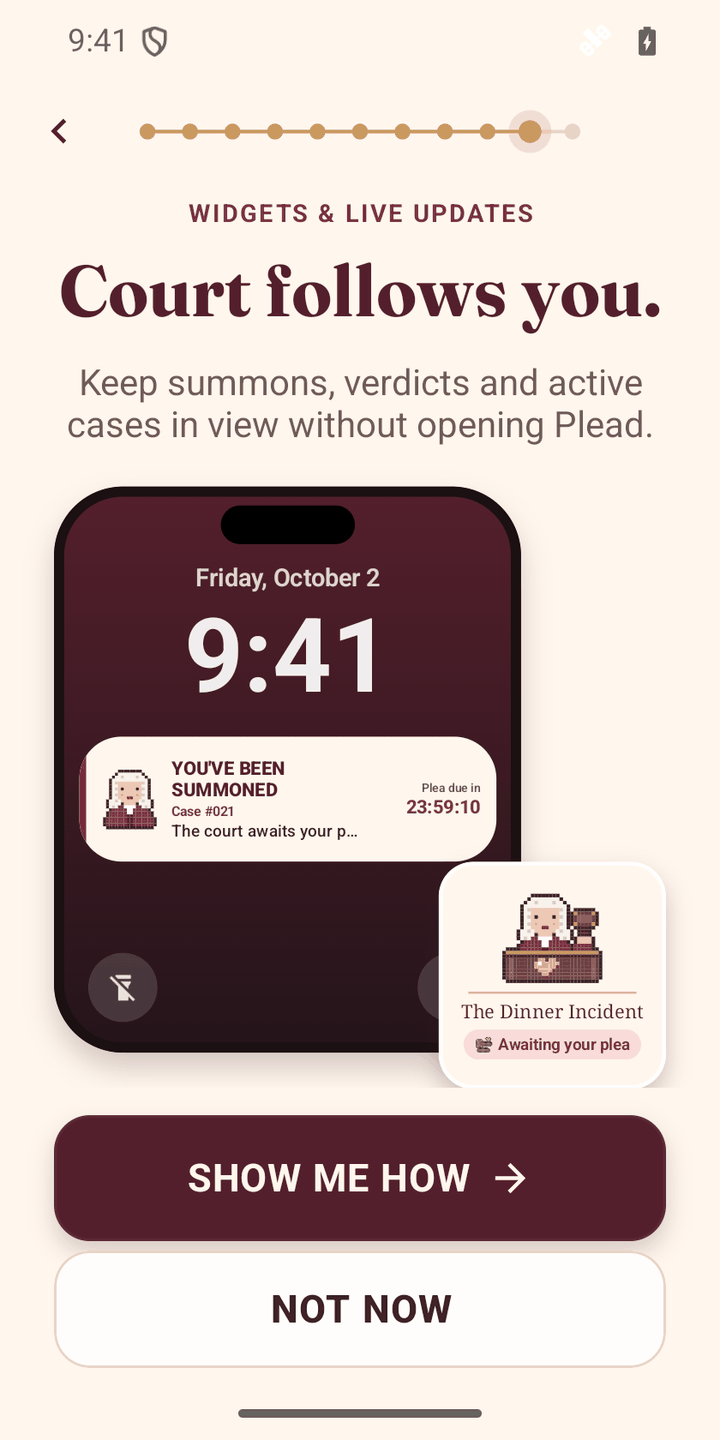
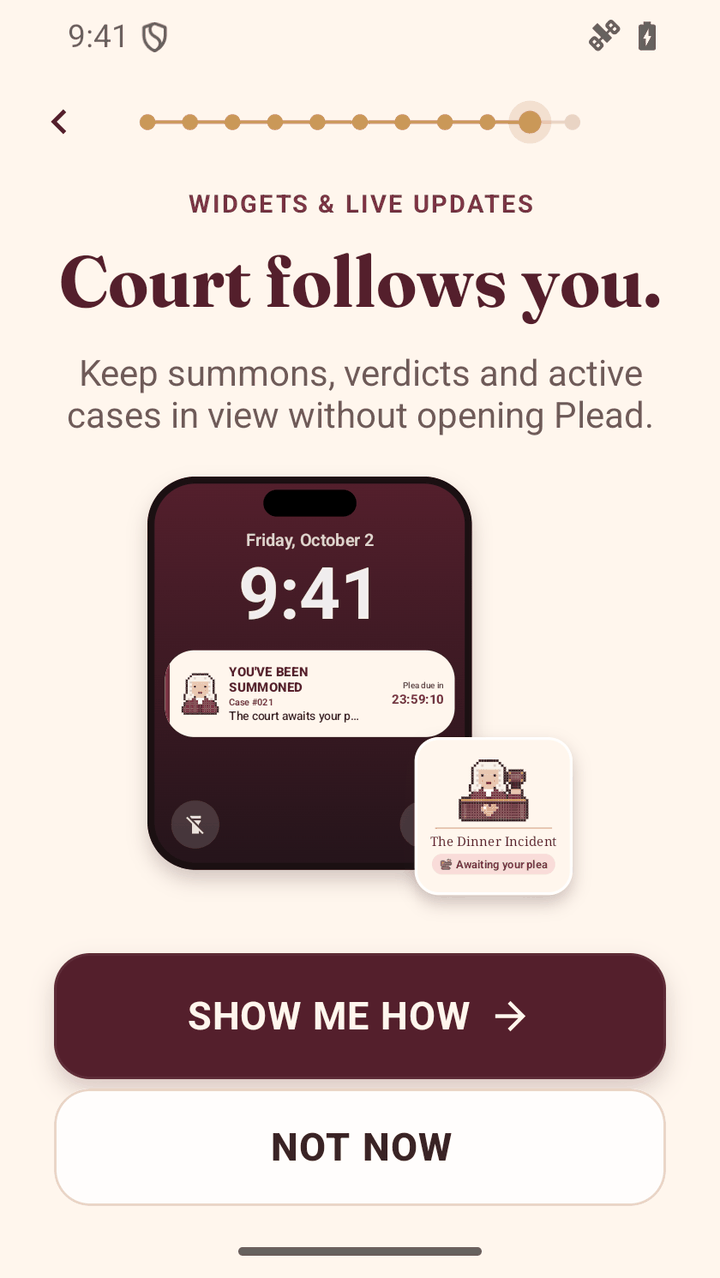
Android: widget illustration fits short screens; integrate tab pill
The onboarding widget illustration now scales uniformly by the smaller
of the width fit and the height between the copy and the buttons, so the
whole composition, widget card included, shows on 360x640 and 320x568
phones (Pixel 7 unchanged). STATUS.md reconciled after merging the
selected-tab pill branch.

JVM 855 run, 0 failures; lint 0 errors (44 warnings); release assembles;
connected 55 run, 54 passed, 1 skipped (600 s).

diff --git a/app/src/main/java/app/plead/android/features/onboarding/WidgetSetupEducationView.kt b/app/src/main/java/app/plead/android/features/onboarding/WidgetSetupEducationView.kt
@@ -15,6 +15,9 @@ package app.plead.android.features.onboarding
 import kotlin.math.roundToInt
 import androidx.compose.ui.unit.Constraints
 import androidx.compose.ui.layout.layout
+import androidx.compose.ui.layout.onGloballyPositioned
+import androidx.compose.ui.layout.positionInWindow
+import androidx.compose.ui.platform.LocalWindowInfo
 import androidx.compose.animation.AnimatedVisibility
 import androidx.compose.animation.core.tween
 import androidx.compose.animation.fadeIn
@@ -129,6 +132,19 @@ fun WidgetSetupEducationView(app: AppModel, modifier: Modifier = Modifier) {
     LaunchedEffect(Unit) { model.widgetEducationAppeared() }
     // Back from the Home Screen (the sheet may still be up): did they add one?
     var firstResume by remember { mutableStateOf(true) }
+    // Short screens: the illustration also fits the height between the copy and the buttons (window px, measured
+    // unscrolled: the hero's top is the lowest it has been, the CTA's the highest, so the scroll and the CTA's
+    // entrance rise never change the fit). Re-measured when the window or the font scale changes.
+    val windowKey = LocalWindowInfo.current.containerSize to LocalDensity.current.fontScale
+    var heroTop by remember(windowKey) { mutableStateOf<Float?>(null) }
+    var ctaTop by remember(windowKey) { mutableStateOf<Float?>(null) }
+    val ctaTopPadding = with(LocalDensity.current) { OnboardingKitTokens.Spacing.ctaTop.toPx() }
+    val heroMargin = with(LocalDensity.current) { WidgetEducationPreview.bottomMargin.toPx() }
+    val heroMaxHeight = WidgetEducationPreview.availableHeight(heroTop, ctaTop, heroMargin)
+    val ctaProbe = Modifier.onGloballyPositioned {
+        val y = it.positionInWindow().y - ctaTopPadding
+        if (ctaTop.let { old -> old == null || y < old }) ctaTop = y
+    }
     LifecycleResumeEffect(Unit) {
         if (firstResume) firstResume = false else scope.launch { model.refreshWidgetSetup() }
         onPauseOrDispose { }
@@ -140,7 +156,15 @@ fun WidgetSetupEducationView(app: AppModel, modifier: Modifier = Modifier) {
             PermissionScreenHeader(eyebrow = WidgetsCopy.eyebrow, headline = WidgetsCopy.headline, subtitle = WidgetsCopy.subtitle)
         },
         content = {
-            item { WidgetEducationPreview() }
+            item {
+                WidgetEducationPreview(
+                    Modifier.onGloballyPositioned {
+                        val y = it.positionInWindow().y
+                        if (heroTop.let { old -> old == null || y > old }) heroTop = y
+                    },
+                    maxHeightPx = heroMaxHeight,
+                )
+            }
             item {
                 WidgetSurfacePills(Modifier.pleadReveal(PleadRevealKind.body, index = 3, delay = OnboardingMotionTokens.cardDelay))
             }
@@ -161,9 +185,9 @@ fun WidgetSetupEducationView(app: AppModel, modifier: Modifier = Modifier) {
         },
         cta = {
             if (model.widgetSetupComplete) {
-                CourtPrimaryButton(title = "Continue", identifier = "onboarding.widgets.continue") { model.advance() }
+                CourtPrimaryButton(title = "Continue", modifier = ctaProbe, identifier = "onboarding.widgets.continue") { model.advance() }
             } else {
-                CourtPrimaryButton(title = "Show me how", identifier = "onboarding.widgets.showMe") { showingInstructions = true }
+                CourtPrimaryButton(title = "Show me how", modifier = ctaProbe, identifier = "onboarding.widgets.showMe") { showingInstructions = true }
                 OnboardingSecondaryButton("Not now") { model.skipWidgetEducation() }
             }
         },
@@ -272,12 +296,31 @@ object WidgetEducationPreview {
     fun heroScale(availableWidthPx: Int, heroWidthPx: Int): Float =
         if (heroWidthPx <= 0 || availableWidthPx >= heroWidthPx) 1f else availableWidthPx.toFloat() / heroWidthPx
 
+    /**
+     * Width and height together: one uniform scale (the iOS proportions) = the smaller of the width fit and the
+     * height fit, never above 1. [availableHeightPx] null = no height limit.
+     */
+    fun heroScale(availableWidthPx: Int, heroWidthPx: Int, availableHeightPx: Int?, heroHeightPx: Int): Float {
+        val byWidth = heroScale(availableWidthPx, heroWidthPx)
+        if (availableHeightPx == null || heroHeightPx <= 0) return byWidth
+        return minOf(byWidth, (availableHeightPx.coerceAtLeast(1)).toFloat() / heroHeightPx)
+    }
+
+    /** Room left under the hero above the buttons: clear of the CTA's edge and the widget card's shadow. */
+    val bottomMargin: Dp = PleadSpacing.m
+
+    /** The height the hero may take (px): from its top to the CTA block's top, minus [marginPx]; null until both are known. */
+    fun availableHeight(heroTop: Float?, ctaTop: Float?, marginPx: Float): Int? {
+        if (heroTop == null || ctaTop == null) return null
+        return (ctaTop - heroTop - marginPx).toInt().coerceAtLeast(1)
+    }
+
     const val accessibilityLabel =
         "Preview: a Plead live update on the Lock Screen saying you've been summoned, and a small Plead widget on the Home Screen."
 }
 
 @Composable
-fun WidgetEducationPreview(modifier: Modifier = Modifier) {
+fun WidgetEducationPreview(modifier: Modifier = Modifier, maxHeightPx: Int? = null) {
     val T = PermissionScreenTokens
     // Fixed reference moment so the countdown reads the same on every launch (never ticks: no looping motion).
     val now = remember { Instant.now() }
@@ -293,7 +336,7 @@ fun WidgetEducationPreview(modifier: Modifier = Modifier) {
                 },
             contentAlignment = Alignment.TopCenter,
         ) {
-            Box(Modifier.heroFit(T.heroWidth, T.heroHeight)) {
+            Box(Modifier.heroFit(T.heroWidth, T.heroHeight, maxHeightPx)) {
                 LockScreenMock(now, Modifier.pleadReveal(PleadRevealKind.card, index = 0))
                 val w = WidgetEducationPreview.widgetRealSize * T.homeWidgetScale
                 HomeWidgetMock(
@@ -514,11 +557,14 @@ object OnboardingActivityBanner {
     }
 }
 
-/** Lays the hero out at [width] × [height] and scales it (both axes, about its centre) to fit a narrower width. */
-private fun Modifier.heroFit(width: Dp, height: Dp): Modifier = layout { measurable, constraints ->
+/**
+ * Lays the hero out at [width] × [height] and scales it uniformly (about its centre) to fit a narrower width and,
+ * when given, [maxHeightPx].
+ */
+private fun Modifier.heroFit(width: Dp, height: Dp, maxHeightPx: Int?): Modifier = layout { measurable, constraints ->
     val w = width.roundToPx()
     val h = height.roundToPx()
-    val scale = if (constraints.hasBoundedWidth) WidgetEducationPreview.heroScale(constraints.maxWidth, w) else 1f
+    val scale = WidgetEducationPreview.heroScale(if (constraints.hasBoundedWidth) constraints.maxWidth else w, w, maxHeightPx, h)
     val placeable = measurable.measure(Constraints.fixed(w, h))
     val outW = (w * scale).roundToInt()
     val outH = (h * scale).roundToInt()

diff --git a/app/src/test/java/app/plead/android/features/onboarding/WidgetEducationPreviewFitTests.kt b/app/src/test/java/app/plead/android/features/onboarding/WidgetEducationPreviewFitTests.kt
@@ -16,6 +16,7 @@ import androidx.compose.ui.test.onNodeWithTag
 import androidx.compose.ui.unit.dp
 import app.plead.android.designsystem.PleadTheme
 import org.junit.Assert.assertEquals
+import org.junit.Assert.assertTrue
 import org.junit.Rule
 import org.junit.Test
 import org.junit.runner.RunWith
@@ -34,6 +35,41 @@ class WidgetEducationPreviewFitTests {
         assertEquals(1f, WidgetEducationPreview.heroScale(1089, 960), 0f)   // Pixel 7: 363 dp of content
         assertEquals(312f / 320f, WidgetEducationPreview.heroScale(936, 960), 0.0001f)   // 360 dp phone
         assertEquals(272f / 320f, WidgetEducationPreview.heroScale(816, 960), 0.0001f)   // 320 dp phone
+    }
+
+    @Test fun heroScaleIsTheSmallerOfTheWidthAndHeightFits() {
+        // No height limit: the width fit.
+        assertEquals(1f, WidgetEducationPreview.heroScale(1089, 960, null, 954), 0f)
+        // Pixel 7: room for the whole hero, unchanged.
+        assertEquals(1f, WidgetEducationPreview.heroScale(1089, 960, 1200, 954), 0f)
+        // Short screen: the height fit wins (uniform, so the proportions stay).
+        assertEquals(477f / 954f, WidgetEducationPreview.heroScale(936, 960, 477, 954), 0.0001f)
+        // Narrow but tall enough: the width fit wins.
+        assertEquals(936f / 960f, WidgetEducationPreview.heroScale(936, 960, 2000, 954), 0.0001f)
+        // Available height from the hero's top to the CTA's, less the margin; unknown until both are measured.
+        assertEquals(null, WidgetEducationPreview.availableHeight(null, 1500f, 36f))
+        assertEquals(564, WidgetEducationPreview.availableHeight(900f, 1500f, 36f))
+        assertEquals(1, WidgetEducationPreview.availableHeight(1500f, 1400f, 36f))
+    }
+
+    /** Short screens: the whole composition fits the height it is given, at the iOS proportions. */
+    @Test fun illustrationScalesToTheOfferedHeight() {
+        var maxHeight by mutableFloatStateOf(318f)
+        rule.setContent {
+            PleadTheme {
+                val px = with(androidx.compose.ui.platform.LocalDensity.current) { maxHeight.dp.roundToPx() }
+                Box(Modifier.width(312.dp)) { WidgetEducationPreview(Modifier.testTag("hero"), maxHeightPx = px) }
+            }
+        }
+        for (h in listOf(318f, 250f, 200f, 150f)) {
+            maxHeight = h
+            rule.waitForIdle()
+            val bounds = rule.onNodeWithTag("hero", useUnmergedTree = true).fetchSemanticsNode().boundsInRoot
+            val scale = minOf(1f, 312f / 320f, h / 318f)
+            val heightDp = with(rule.density) { bounds.height.toDp().value }
+            assertEquals("hero height with $h dp available", 318f * scale, heightDp, 1f)
+            assertTrue("hero taller than $h dp", heightDp <= h + 0.5f)
+        }
     }
 
     /** Content widths of 320, 343, 360 dp and Pixel 7 phones (screen − 2 × 24 dp gutter), and the iOS 16e (342). */

diff --git a/docs/STATUS.md b/docs/STATUS.md
@@ -13,21 +13,23 @@ integrator (wave 4) keeps the summary current. Brief: [PORT.md](PORT.md).
   judgement, Settings (incl. the onboarding preview), Us, the Glance widgets (small / medium / 1x1 / one-row strip),
   FCM push and the ongoing "court in session" notification (the Live Activity's replacement). `DemoHarness` flags
   drive all of it on the emulator; screenshots in [screenshots/](screenshots/).
-- **Build (`polish2/type`):** `assembleDebug` + `assembleRelease` OK; JVM tests 848 run, 0 failures; lint 0 errors
-  (44 warnings, 5 hints); Compose tests on `visage_phone` 53 run, 52 passed, 1 skipped, 0 failures (10 min).
+- **Build (`polish2/all`: `polish2/type` + `polish2/tabpill`):** `assembleDebug` + `assembleRelease` (unsigned) OK;
+  JVM tests 855 run, 0 failures; lint 0 errors (44 warnings, 5 hints); Compose tests on `visage_phone` 55 run,
+  54 passed, 1 skipped, 0 failures (600 s of test time).
 - **Build (final, `polish/all`: court + misc + shell polish integrated):** `assembleDebug` + `assembleRelease` (unsigned:
   no release signing config, see "Needs the user") OK; JVM tests 835 run, 0 failures; lint 0 errors (44 warnings,
   5 hints); Compose tests on the `visage_phone` emulator (API 35) 53 run, 52 passed, 1 skipped, 0 failures (first full
   run, 10 min); backend `deno check` clean, `deno test` 279 passed, 0 failed (unchanged by the polish branches).
 - **Compose UI tests:** every ArgueWinUITests suite is ported: 43 instrumented tests under
   `src/androidTest/.../features/{court,shell,onboarding}/` on one shared support package (see "Compose UI tests"
-  below), next to the 8 earlier smoke tests and the 2 tab-state tests (`features/shell/TabStateComposeTests`). Run on
-  the `visage_phone` emulator (Pixel 7, API 35, `connectedDebugAndroidTest`): 53 run, 52 passed, 1 skipped
+  below), next to the 8 earlier smoke tests, the 2 tab-state tests (`features/shell/TabStateComposeTests`) and the 2
+  tab-pill tests (`features/shell/TabBarPillComposeTests`). Run on the `visage_phone` emulator (Pixel 7, API 35,
+  `connectedDebugAndroidTest`): 55 run, 54 passed, 1 skipped
   (`testDefenceDueOpensTheDefenceFlow`, an assumption, as on iOS), 0 failed (~10 min).
 - **Owed:** the Wave 4 visual gaps are fixed (polish branches, listed under Wave 4; `polish2/type` fixed letter
   spacing, the scheduling sheet's partial detent, the judge name on 360 dp phones and the onboarding widget
-  illustration under ~368 dp); what is still open: the Liquid Glass pill behind the selected tab, slow debug cold
-  launches on the emulator.
+  illustration on narrow and short phones; `polish2/tabpill` drew the selected-tab pill). What is still open: the
+  pill has no live glass refraction / blur (not portable), slow debug cold launches on the emulator.
 - **Needs the user:** see the last section.
 
 ## Wave 1: skeleton (done)
@@ -431,11 +433,14 @@ Fixed since (branch `polish2/type`):
   name at full size. At 360 dp: ×1 unchanged; ×1.15 and the bubble's xxLarge cap (×1.3 and above) render at ≈0.97 /
   0.91 on one row. Pixel 7 is unchanged at every scale. `CourtJudgeHeaderTests` (1, 1.15, 1.3, 2.0 at 411 and 360 dp,
   phase chip and ruling box, plus the fit rule); `screenshots/court-judge-large-360.png`.
-- **Onboarding widget illustration** (`WidgetEducationPreview`): laid out at its iOS size (320 × 318) and scaled with
-  its proportions to the width offered when narrower (`heroFit`), so nothing runs past the edge from 320 dp up (it
-  used to be clamped to the column width with the widget offset fixed, so on 343 dp it ran 1 dp past the screen, more
-  while floating in). Pixel 7 and the iOS 16e width are unscaled. `WidgetEducationPreviewFitTests`;
-  `screenshots/onb2-widgets-360.png`, `onb2-widgets-320.png`.
+- **Onboarding widget illustration** (`WidgetEducationPreview`): laid out at its iOS size (320 × 318) and scaled
+  uniformly (`heroFit`, the iOS proportions, centred) by the smaller of the width fit and the height fit: the height
+  from the hero's top to the buttons, minus 12 dp (measured unscrolled, so scrolling and the CTA's entrance never
+  change it). Nothing runs past the edge from 320 dp up, and on short phones the whole composition, down to the widget
+  card's "Awaiting your plea" pill, sits above the buttons (the pills and the availability line below it scroll).
+  It used to be clamped to the column width with the widget offset fixed (on 343 dp it ran 1 dp past the screen) and
+  on 360 × 640 the buttons cut the widget card in half. Pixel 7 and the iOS 16e size are unscaled.
+  `WidgetEducationPreviewFitTests`; `screenshots/onb2-widgets-360.png` (360 × 640), `onb2-widgets-320.png` (320 × 568).
 - Still differs from iOS: tracking in sp grows with the system font scale (iOS tracking is in points and does not
   follow Dynamic Type); Material components' own sizes and line heights (dialog titles, date pickers) are Material's.
 
@@ -512,7 +517,8 @@ Fixed since (polish/misc):
 - Onboarding's widget illustration no longer tail-truncates "The Dinner Incid…": `widgets/WidgetFitText` (Compose,
   measured with the theme style merged in) applies the same `.minimumScaleFactor(0.75)` as the real small widget.
 
-Open (not fixed): none (the onboarding widget illustration under ~368 dp is fixed on `polish2/type`, below).
+Open (not fixed): none (the onboarding widget illustration on narrow / short phones is fixed on `polish2/type`, see
+"Fixed since (branch `polish2/type`)" under Wave 4).
 
 ## Compose UI tests (ArgueWinUITests port)
 
